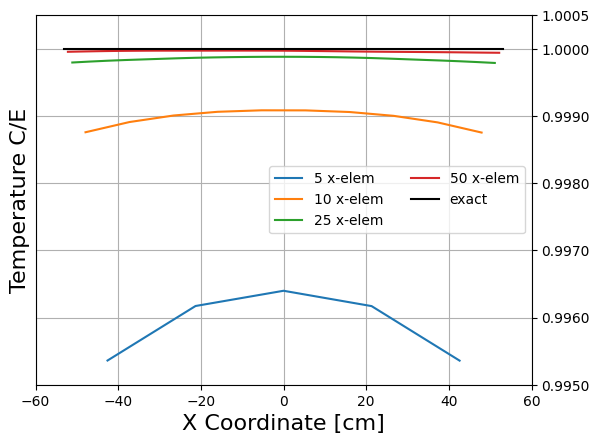
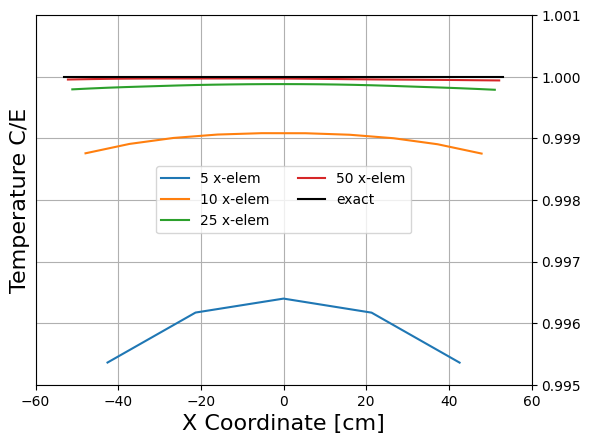
moved legends to be center on coarse plots and added consistent yaxis ticks

diff --git a/simulations/visualization/more_active_batches/viz.py b/simulations/visualization/more_active_batches/viz.py
@@ -97,14 +97,14 @@ plt.xticks([-60,-40,-20,0,20,40,60])
 dict_min = min(i for v in ratios_temp_num_to_analy.values() for i in v)
 dict_max = max(i for v in ratios_temp_num_to_analy.values() for i in v)
 # plt.yticks(np.linspace(dict_min,dict_max,8))
-plt.yticks([0.995,0.996,0.997,0.998,0.999,1,1.0005])
+plt.yticks([0.995,0.996,0.997,0.998,0.999,1,1.001])
 plt.xlabel("X Coordinate [cm]",fontsize=16)
 plt.ylabel(r"Temperature C/E",fontsize=16)
 plt.gca().yaxis.tick_right()
-plt.gca().yaxis.set_major_formatter(mtick.FormatStrFormatter('%.4f'))
+plt.gca().yaxis.set_major_formatter(mtick.FormatStrFormatter('%.3f'))
 plt.yticks()
 # plt.title(f"Ratio Numerical to Analytical Temp All Meshes. 200 Picard Iterations")
-plt.legend(ncol=2)
+plt.legend(loc='center',ncol=2)
 plt.grid()
 plt.savefig("coarse_temp_num_to_analy_ratios.png",bbox_inches='tight')
 plt.clf()

diff --git a/simulations/more_active_batches/restarts/reviz/visualize_results_flux_only.py b/simulations/more_active_batches/restarts/reviz/visualize_results_flux_only.py
@@ -153,12 +153,12 @@ for n in [5,10,25,50]:
     # plt.errorbar(xx[n],ratios_flux_num_to_analy[n],yerr=two_sigma_r[n],marker = '|',fmt='none',elinewidth=0.25,capsize=3,capthick=1)
 plt.plot(xx[n],ones[n],'k',label="exact")
 plt.xticks([-60,-40,-20,0,20,40,60])
-plt.yticks([1-0.5e-2, 1-0.4e-2, 1-0.2e-2, 1,1+0.1e-2])
+plt.yticks([1-0.5e-2, 1-0.4e-2, 1-0.3e-2, 1-0.2e-2,1-0.1e-2, 1,1+0.1e-2])
 plt.xlabel("X Coordinate [cm]",fontsize=16)
 plt.ylabel(r"Flux C/E",fontsize=16)
 plt.gca().yaxis.tick_right()
 plt.gca().yaxis.set_major_formatter(mtick.FormatStrFormatter('%.3f'))
-plt.legend(ncol=2)
+plt.legend(loc='center',ncol=2)
 plt.grid()
 plt.savefig("coarse_flux_num_to_analy_ratios.png",bbox_inches='tight')
 plt.clf()
